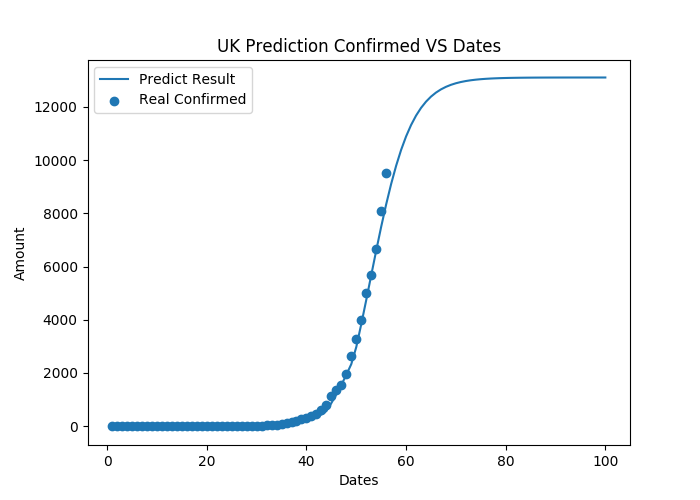
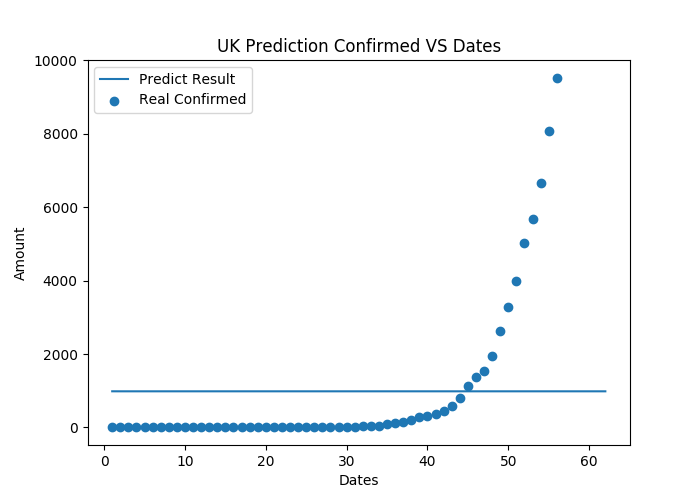
updated training

diff --git a/mlp_uk.py b/mlp_uk.py
@@ -1,3 +1,5 @@
+import numpy as np
+np.random.seed(1337)
 from keras.models import Sequential
 from keras.layers import Dense
 import matplotlib.pyplot as plt
@@ -11,8 +13,8 @@ model.compile(optimizer='adam', loss='mean_squared_error')
 model.summary()
 
 import csv
-import numpy as np
 
+# italy
 with open('data/italy_history.csv', 'r') as csvfile:
     reader = csv.reader(csvfile)
     rows = [row for row in reader]
@@ -30,15 +32,55 @@ corn_x = list(range(1, dates + 1))
 
 corn_x = np.array(corn_x)
 corn_y = np.array(corn_y)
-corn_y_norm = corn_y / 115000
+corn_y_norm = corn_y / 110000
 
-model.fit(corn_x, corn_y_norm, epochs=1000)
+model.fit(corn_x, corn_y_norm, epochs=5000, shuffle=False)
 corn_y_predict = model.predict(corn_x)
-corn_y_predict = corn_y_predict * 115000
+corn_y_predict = corn_y_predict * 110000
 fig1 = plt.figure(figsize=(7, 5))
 plt.scatter(corn_x, corn_y, label='Real Confirmed')
 plt.plot(corn_x, corn_y_predict, label='Predict Result')
 plt.title('Italy Confirmed VS Dates')
+plt.xlabel('Dates')
+plt.ylabel('Amount')
+plt.legend()
+plt.show()
+
+# germany
+
+with open('data/germany_history.csv', 'r') as csvfile:
+    reader = csv.reader(csvfile)
+    rows = [row for row in reader]
+
+
+ger_corn_y = []
+
+for each_y in rows:
+    ger_corn_y.append(int(each_y[0]))
+
+
+dates = len(ger_corn_y)
+ger_corn_x = list(range(1, dates + 1))
+
+model = Sequential()
+model.add(Dense(units=50, input_dim=1, activation='relu'))
+model.add(Dense(units=50, activation='relu'))
+model.add(Dense(units=1, activation='sigmoid'))
+model.add(Dense(units=1, activation='linear'))
+model.compile(optimizer='adam', loss='mean_squared_error')
+model.summary()
+
+corn_x = np.array(ger_corn_x)
+corn_y = np.array(ger_corn_y)
+corn_y_norm = corn_y / 37323
+
+model.fit(corn_x, corn_y_norm, epochs=5000,shuffle=False)
+corn_y_predict = model.predict(corn_x)
+corn_y_predict = corn_y_predict * 37323
+fig_italy = plt.figure(figsize=(7, 5))
+plt.scatter(corn_x, corn_y, label='Real Confirmed')
+plt.plot(corn_x, corn_y_predict, label='Predict Result')
+plt.title('Germany Confirmed VS Dates')
 plt.xlabel('Dates')
 plt.ylabel('Amount')
 plt.legend()
@@ -71,13 +113,13 @@ uk_dates = list(range(1, uk_date_length + 1))
 uk_comfirmed_data = np.array(uk_comfirmed_data)
 uk_dates = np.array(uk_dates)
 
-uk_comfirmed_data_norm = uk_comfirmed_data / 21000
+uk_comfirmed_data_norm = uk_comfirmed_data / 15658
 
 # fit model
-model.fit(uk_dates, uk_comfirmed_data_norm, epochs=1000)
+model.fit(uk_dates, uk_comfirmed_data_norm, epochs=5000, shuffle=False)
 
 uk_comfirmed_data_predict = model.predict(uk_dates)
-uk_comfirmed_data_predict = uk_comfirmed_data_predict * 21000
+uk_comfirmed_data_predict = uk_comfirmed_data_predict * 15658
 fig2 = plt.figure(figsize=(7, 5))
 plt.scatter(uk_dates, uk_comfirmed_data, label='Real Confirmed')
 plt.plot(uk_dates, uk_comfirmed_data_predict, label='Predict Result')
@@ -87,14 +129,14 @@ plt.ylabel('Amount')
 plt.legend()
 plt.show()
 
-uk_comfirmed_data_predict = np.array(list(range(1, 101)))
-uk_comfirmed_predict_100 = model.predict(uk_comfirmed_data_predict)
+uk_comfirmed_data_predict = np.array(list(range(1, uk_date_length+8)))
+uk_comfirmed_predict_7_days = model.predict(uk_comfirmed_data_predict)
 fig3 = plt.figure(figsize=(7, 5))
 plt.scatter(uk_dates, uk_comfirmed_data, label='Real Confirmed')
-plt.plot(uk_comfirmed_data_predict, uk_comfirmed_predict_100*21000, label='Predict Result')
+plt.plot(uk_comfirmed_data_predict, uk_comfirmed_predict_7_days*15658, label='Predict Result')
 plt.title('UK Prediction Confirmed VS Dates')
 plt.xlabel('Dates')
 plt.ylabel('Amount')
 plt.legend()
-plt.savefig('uk_model.png')
+plt.savefig('uk_model_7_days.png')
 plt.show()

diff --git a/mlp_uk_learning.py b/mlp_uk_learning.py
@@ -1,0 +1,57 @@
+import numpy as np
+np.random.seed(1337)
+from keras.models import Sequential
+from keras.layers import Dense
+import matplotlib.pyplot as plt
+
+
+model = Sequential()
+model.add(Dense(units=50, input_dim=1, activation='relu'))
+model.add(Dense(units=50, activation='relu'))
+model.add(Dense(units=1, activation='sigmoid'))
+model.add(Dense(units=1, activation='linear'))
+model.compile(optimizer='adam', loss='mean_squared_error')
+model.summary()
+
+# uk corona
+import json
+
+url = 'https://api.covid19uk.live/historyfigures'
+
+
+def read_url_to_json(url):
+    import urllib.request as request
+    webpage = request.urlopen(url)
+    get_data = webpage.read()
+    data = json.loads(get_data)
+    return data
+
+
+read_data = read_url_to_json(url)
+each_data = read_data['data']
+uk_comfirmed_data = []
+
+for each in each_data:
+    uk_comfirmed_data.append(each['confirmed'])
+
+uk_date_length = len(uk_comfirmed_data)
+uk_dates = list(range(1, uk_date_length + 1))
+
+uk_comfirmed_data = np.array(uk_comfirmed_data)
+uk_dates = np.array(uk_dates)
+
+uk_comfirmed_data_norm = uk_comfirmed_data / 14658
+
+# fit model
+model.fit(uk_dates, uk_comfirmed_data_norm, epochs=5000, shuffle=False)
+
+uk_comfirmed_data_predict = model.predict(uk_dates)
+uk_comfirmed_data_predict = uk_comfirmed_data_predict * 14658
+fig2 = plt.figure(figsize=(7, 5))
+plt.scatter(uk_dates, uk_comfirmed_data, label='Real Confirmed')
+plt.plot(uk_dates, uk_comfirmed_data_predict, label='Predict Result')
+plt.title('UK Confirmed VS Dates')
+plt.xlabel('Dates')
+plt.ylabel('Amount')
+plt.legend()
+plt.show()

diff --git a/mlp_germany.py b/mlp_germany.py
@@ -6,19 +6,19 @@ import matplotlib.pyplot as plt
 
 import csv
 
-with open('data/italy_history.csv', 'r') as csvfile:
+with open('data/germany_history.csv', 'r') as csvfile:
     reader = csv.reader(csvfile)
     rows = [row for row in reader]
 
 
-corn_y = []
+ger_corn_y = []
 
 for each_y in rows:
-    corn_y.append(int(each_y[0]))
+    ger_corn_y.append(int(each_y[0]))
 
 
-dates = len(corn_y)
-corn_x = list(range(1, dates + 1))
+dates = len(ger_corn_y)
+ger_corn_x = list(range(1, dates + 1))
 
 model = Sequential()
 model.add(Dense(units=50, input_dim=1, activation='relu'))
@@ -28,17 +28,17 @@ model.add(Dense(units=1, activation='linear'))
 model.compile(optimizer='adam', loss='mean_squared_error')
 model.summary()
 
-corn_x = np.array(corn_x)
-corn_y = np.array(corn_y)
-corn_y_norm = corn_y / 110000
+corn_x = np.array(ger_corn_x)
+corn_y = np.array(ger_corn_y)
+corn_y_norm = corn_y / 37323
 
 model.fit(corn_x, corn_y_norm, epochs=5000, shuffle=False)
 corn_y_predict = model.predict(corn_x)
-corn_y_predict = corn_y_predict * 110000
-fig1 = plt.figure(figsize=(7, 5))
+corn_y_predict = corn_y_predict * 37323
+fig_italy = plt.figure(figsize=(7, 5))
 plt.scatter(corn_x, corn_y, label='Real Confirmed')
 plt.plot(corn_x, corn_y_predict, label='Predict Result')
-plt.title('Italy Confirmed VS Dates')
+plt.title('Germany Confirmed VS Dates')
 plt.xlabel('Dates')
 plt.ylabel('Amount')
 plt.legend()

diff --git a/read_history_germany.py b/read_history_germany.py
@@ -1,0 +1,20 @@
+import csv
+import numpy as np
+with open('data/germany_history.csv','r') as csvfile:
+    reader = csv.reader(csvfile)
+    rows= [row for row in reader]
+
+
+ger_corn_y = []
+
+for each_y in rows:
+    ger_corn_y.append(int(each_y[0]))
+
+dates = len(ger_corn_y)
+
+ger_corn_x = list(range(1, dates+1))
+
+print('dates:')
+print(ger_corn_x)
+print('confirmed:')
+print(ger_corn_y)
